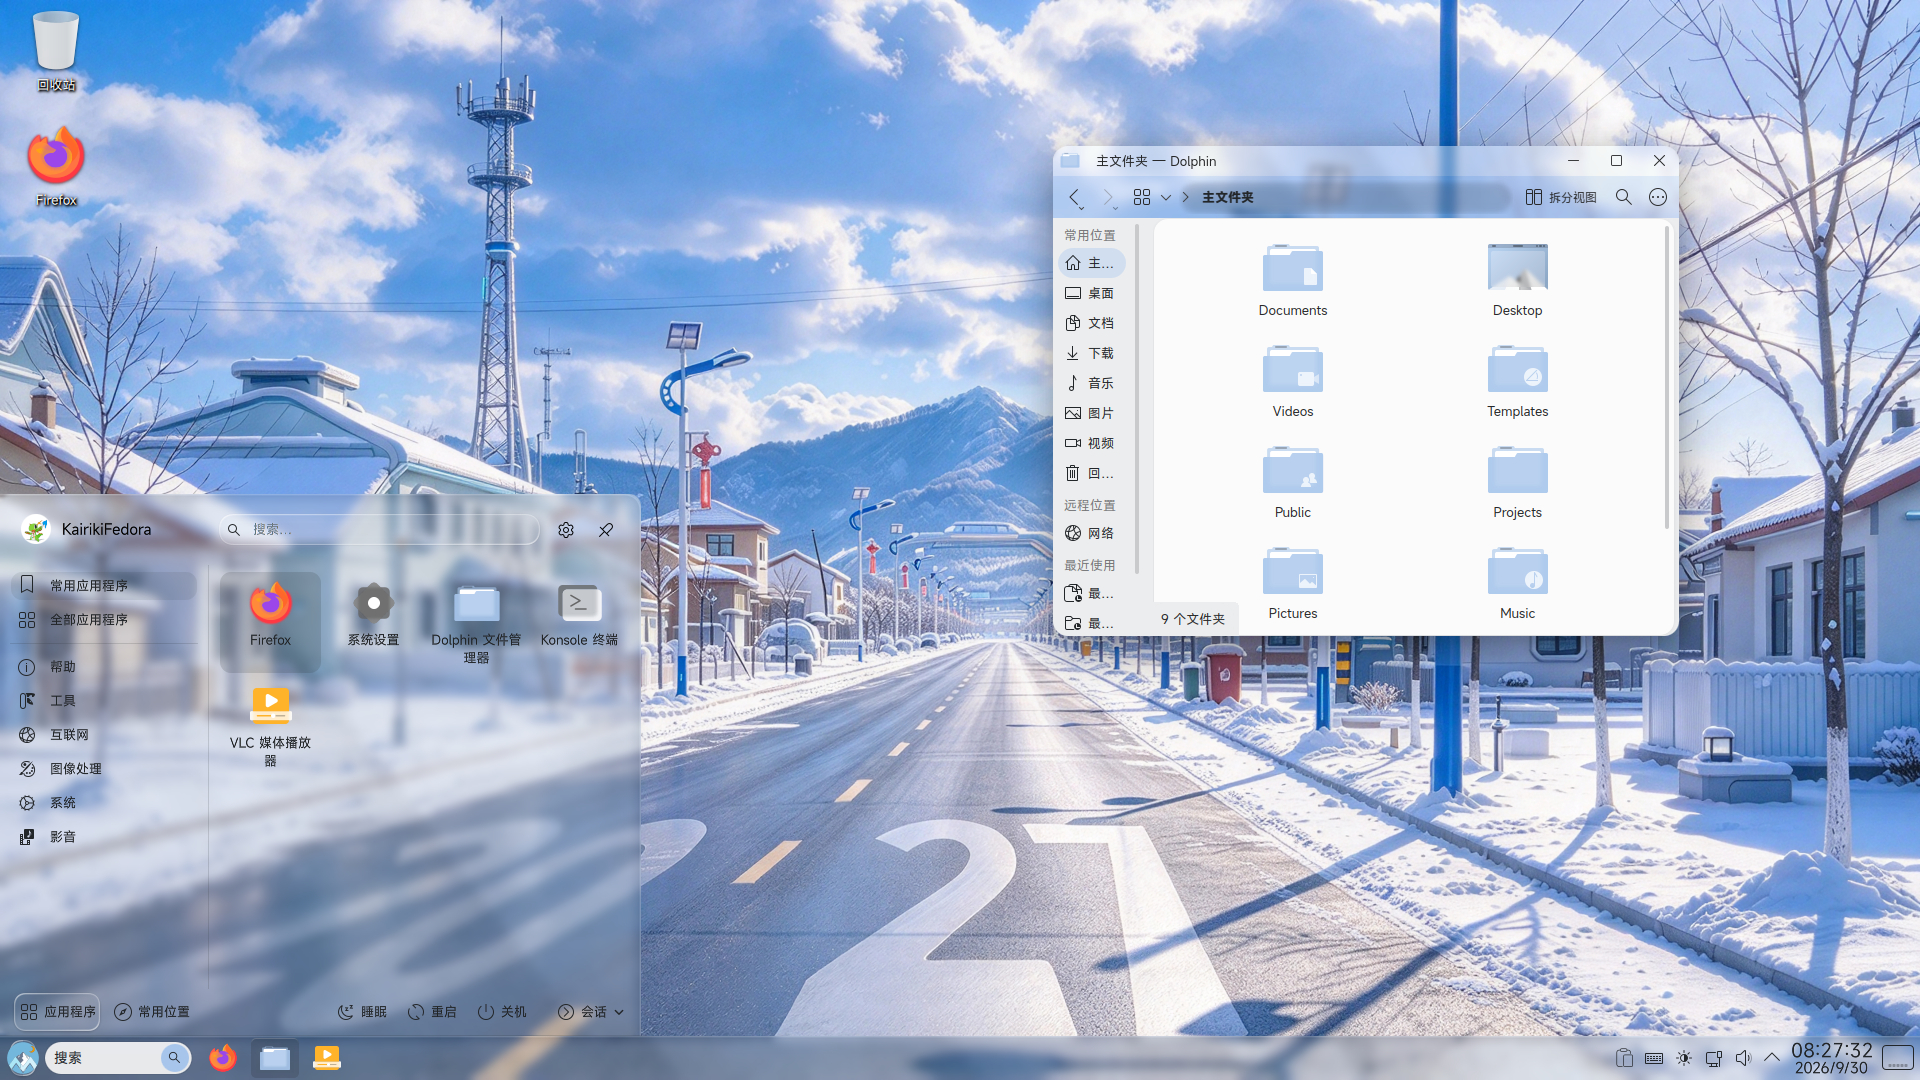
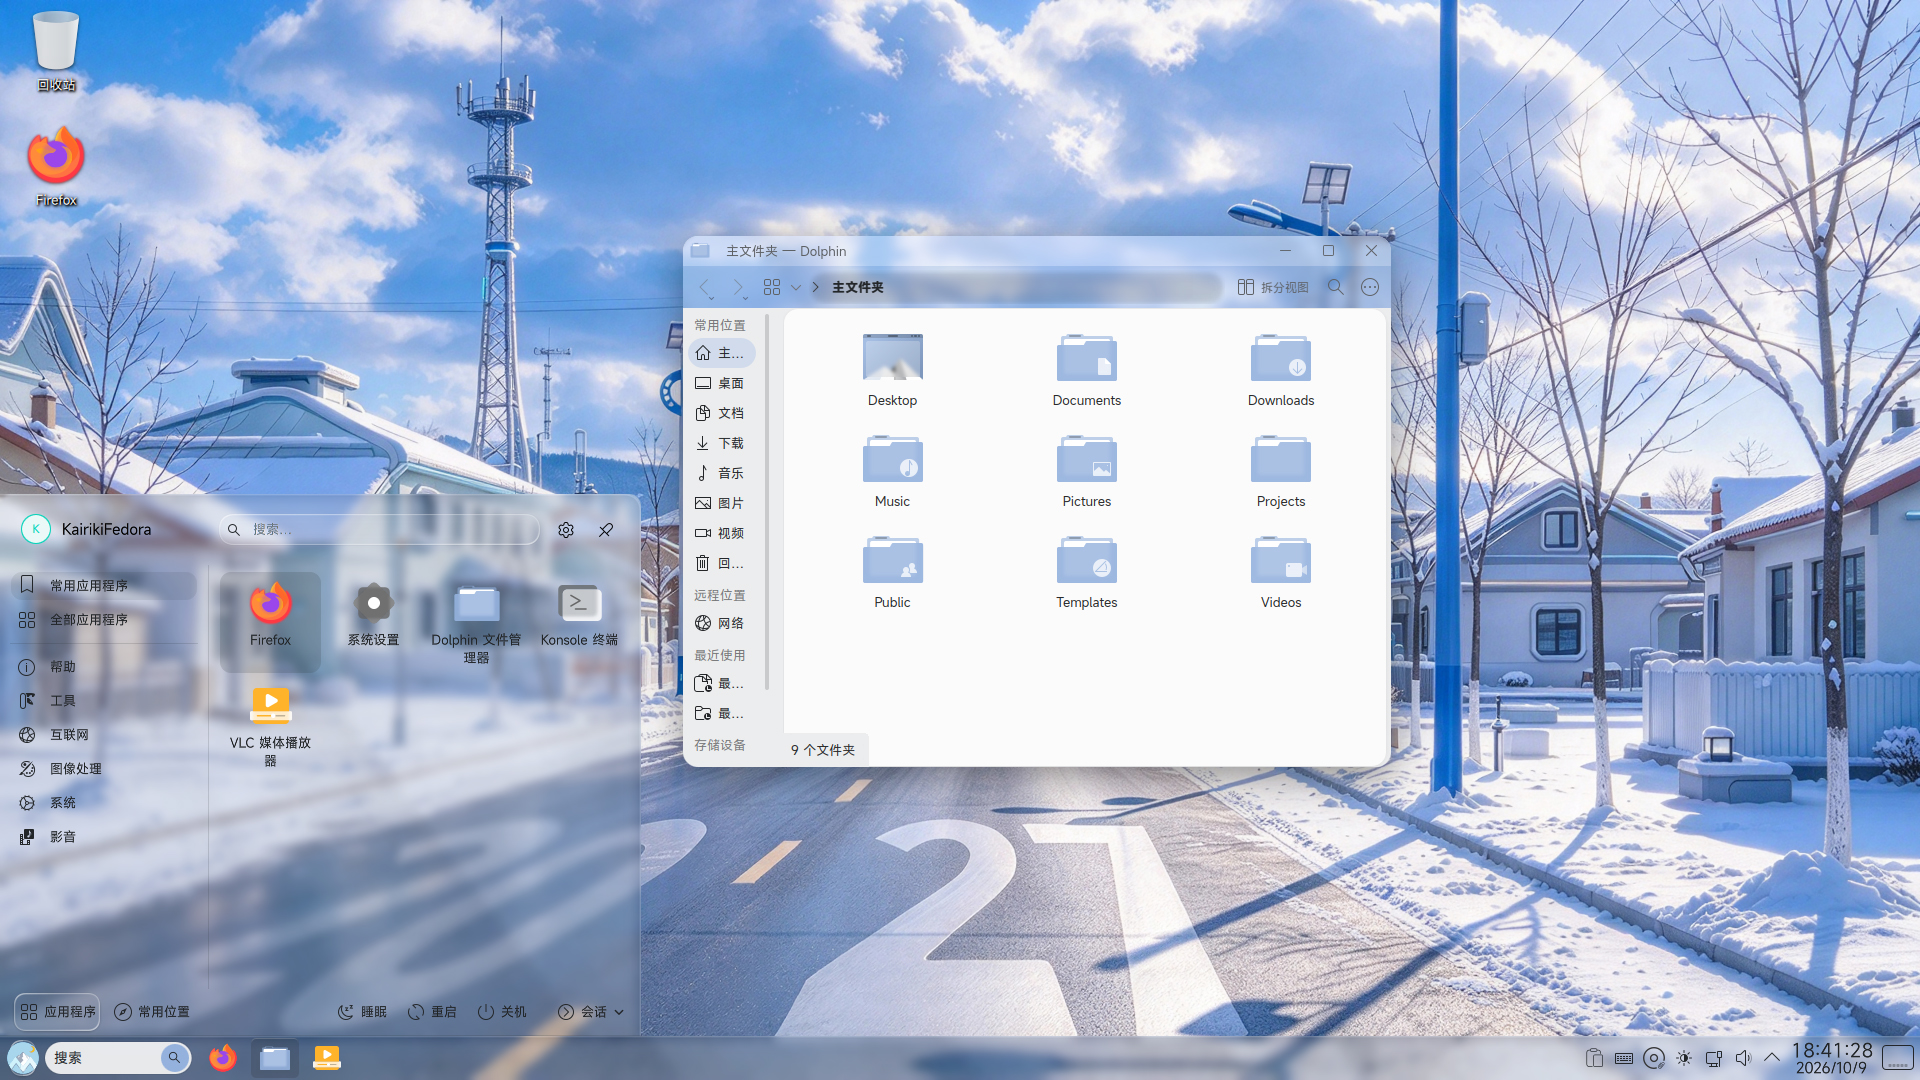
Add Adwaita Accent Tint Support and Add Modern System Tray support

diff --git a/etc/skel/.config/gtk-4.0/gtk.css b/etc/skel/.config/gtk-4.0/gtk.css
@@ -1,0 +1,82 @@
+/* =========================================
+ * Light Mode Implementation
+ * ========================================= */
+@media (prefers-color-scheme: light) {
+    /* Base Variables */
+    @define-color window_bg_color mix(#fafafb, @accent_bg_color, 0.075);
+    @define-color view_bg_color mix(#ffffff, @accent_bg_color, 0.075);
+    @define-color headerbar_bg_color mix(#ffffff, @accent_bg_color, 0.075);
+    @define-color headerbar_backdrop_color mix(#fafafb, @accent_bg_color, 0.075);
+    @define-color popover_bg_color mix(#ffffff, @accent_bg_color, 0.075);
+    @define-color dialog_bg_color mix(#fafafb, @accent_bg_color, 0.075);
+    @define-color card_bg_color mix(#ffffff, @accent_bg_color, 0.04);
+    @define-color sidebar_bg_color mix(#ebebed, @accent_bg_color, 0.075);
+    @define-color sidebar_backdrop_color mix(#f2f2f4, @accent_bg_color, 0.075);
+    @define-color sidebar_border_color mix(rgba(0, 0, 6, 0.07), @accent_bg_color, 0.075);
+    @define-color secondary_sidebar_bg_color mix(#f3f3f5, @accent_bg_color, 0.075);
+    @define-color secondary_sidebar_backdrop_color mix(#f6f6fa, @accent_bg_color, 0.075);
+    @define-color secondary_sidebar_border_color mix(rgba(0, 0, 0, 0.07), @accent_bg_color, 0.075);
+
+    /* Specific Element Overrides (Light) */
+    @define-color panel_bg_color @window_bg_color;
+    @define-color panel_button_bg_color transparent;
+    @define-color panel_hover_bg_color @card_bg_color;
+
+    /* Compatibility Colors (Safety Fallback) */
+    @define-color theme_bg_color @window_bg_color;
+    @define-color theme_base_color @view_bg_color;
+    @define-color theme_selected_bg_color @accent_bg_color;
+}
+
+/* =========================================
+ * Dark Mode Implementation
+ * ========================================= */
+@media (prefers-color-scheme: dark) {
+    /* Base Variables */
+    @define-color window_bg_color mix(#222226, @accent_bg_color, 0.05);
+    @define-color view_bg_color mix(#1d1d20, @accent_bg_color, 0.05);
+    @define-color headerbar_bg_color mix(#2e2e32, @accent_bg_color, 0.05);
+    @define-color headerbar_backdrop_color mix(#222226, @accent_bg_color, 0.05);
+    @define-color popover_bg_color mix(#36363a, @accent_bg_color, 0.05);
+    @define-color dialog_bg_color mix(#36363a, @accent_bg_color, 0.05);
+    @define-color card_bg_color mix(rgba(255, 255, 255, 0.08), @accent_bg_color, 0.05);
+    @define-color sidebar_bg_color mix(#2e2e32, @accent_bg_color, 0.05);
+    @define-color sidebar_backdrop_color mix(#28282c, @accent_bg_color, 0.05);
+    @define-color sidebar_border_color mix(rgba(0, 0, 0, 0.36), @accent_bg_color, 0.05);
+    @define-color secondary_sidebar_bg_color mix(#28282c, @accent_bg_color, 0.05);
+    @define-color secondary_sidebar_backdrop_color mix(#252529, @accent_bg_color, 0.05);
+    @define-color secondary_sidebar_border_color mix(rgba(0, 0, 0, 0.25), @accent_bg_color, 0.05);
+
+    /* Specific Element Overrides (Dark) */
+    @define-color panel_bg_color @window_bg_color;
+    @define-color panel_button_bg_color transparent;
+    @define-color panel_hover_bg_color @card_bg_color;
+
+    /* Compatibility Colors (Safety Fallback) */
+    @define-color theme_bg_color @window_bg_color;
+    @define-color theme_base_color @view_bg_color;
+    @define-color theme_selected_bg_color @accent_bg_color;
+}
+
+/* =========================================
+ * Element Styling Rules
+ * ========================================= */
+
+/* Force toasts to always use the dark base with white text
+ *  to match Nautilus's native high-contrast alert style. */
+toast {
+    background-color: mix(#505053, @accent_bg_color, 0.05);
+    color: #ffffff;
+}
+
+toggle:checked {
+    background-color: @card_bg_color;
+}
+
+.inline {
+    background-color: rgba(0, 0, 0, 0);
+}
+
+@import 'window_controls.css';
+@import 'colors.css';
+@import 'kde_window_geometry.css';

diff --git a/etc/skel/.config/gtk-4.0/window_controls.css b/etc/skel/.config/gtk-4.0/window_controls.css
@@ -1,0 +1,81 @@
+windowcontrols:not(.rewaita-display) > button {
+    padding: 2px;
+}
+
+windowcontrols:not(.rewaita-display) image:not(:hover) {
+    background-color: transparent;
+}
+
+windowcontrols:not(.rewaita-display) image:hover {
+    background-color: @window_fg_color;
+    color: @window_bg_color;
+}
+
+windowcontrols:not(.rewaita-display) > button.minimize > image {
+    background-image: -gtk-icontheme("adw-expander-arrow-symbolic");
+    transform: rotate(180deg);
+    -gtk-icon-transform: scale(0);
+    background-size: 16px;
+    background-position: center;
+    background-repeat: no-repeat;
+}
+
+windowcontrols:not(.rewaita-display) > button.maximize > image {
+    background-image: -gtk-icontheme("adw-expander-arrow-symbolic");
+    -gtk-icon-transform: scale(0);
+    background-size: 16px;
+    background-position: center;
+    background-repeat: no-repeat;
+}
+
+windowcontrols:not(.rewaita-display) > button.close > image:hover {
+    background-color: @red_1;
+    color: @window_bg_color;
+}
+
+windowcontrols:not(.rewaita-display) > button.close > image {
+    transform: scale(1.1);
+}
+
+window.maximized > * windowcontrols:not(.rewaita-display) > button.maximize:hover {
+    background-color: @window_fg_color;
+    color: @window_bg_color;
+}
+
+window.maximized > * windowcontrols:not(.rewaita-display) > button.maximize {
+    border-radius: 100%;
+    margin: 3px 0;
+}
+
+window.maximized > * windowcontrols:not(.rewaita-display) > button.maximize > image:hover {
+    background-color: transparent;
+}
+
+window.maximized > * windowcontrols:not(.rewaita-display) > button.maximize:hover > image {
+    box-shadow: inset 0 0 0 3px @window_bg_color;
+}
+
+window.maximized > * windowcontrols:not(.rewaita-display) > button.maximize > image {
+    background-image: none;
+    box-shadow: inset 0 0 0 3px @window_fg_color;
+    border-radius: 1px;
+    color: @window_fg_color;
+    transform: rotate(45deg) scale(0.5);
+}
+
+/* 窗口图标（标题栏左侧）：悬停不再有黑底/反色 */
+windowcontrols:not(.rewaita-display) image:hover {
+    background-color: transparent;
+    color: @window_fg_color;
+}
+
+/* 只给 最小化/最大化/关闭 三个按钮保留原来的反色悬停 */
+windowcontrols:not(.rewaita-display) > button > image:hover {
+    background-color: @window_fg_color;
+    color: @window_bg_color;
+}
+
+/*headerbar, .titlebar {
+    background-color: @theme_titlebar_background_breeze;
+    color: @theme_titlebar_foreground_breeze;
+}*/

diff --git a/etc/skel/.config/gtk-4.0/kde_window_geometry.css b/etc/skel/.config/gtk-4.0/kde_window_geometry.css
@@ -1,0 +1,41 @@
+/* ========================================================
+ *  1. 基础轮廓与圆角（亮色模式默认）
+ *  ======================================================== */
+window,
+window.background,
+.csd decoration,
+.csd {
+    border-radius: 6px;
+    /* 明亮模式：半透明黑色边框 */
+    border: 1px solid rgba(0, 0, 0, 0.18);
+}
+
+/* ========================================================
+ *  2. 暗色模式：仅覆盖边框颜色
+ *  ======================================================== */
+@media (prefers-color-scheme: dark) {
+    window,
+    window.background,
+    .csd decoration,
+    .csd {
+        /* 暗色模式：半透明白色边框/高亮线 */
+        border-color: rgba(255, 255, 255, 0.18);
+    }
+}
+
+/* ========================================================
+ *  3. 状态控制：平铺或最大化时自动重置，避免错位
+ *  ======================================================== */
+window.maximized,
+window.fullscreen,
+window.tiled,
+window.tiled-top,
+window.tiled-left,
+window.tiled-right,
+window.tiled-bottom {
+    border: none;
+    border-radius: 0;
+}
+
+
+

diff --git a/usr/share/plasma/look-and-feel/evernight-vista-harmony-dark/contents/layouts/org.kde.plasma.desktop-layout.js b/usr/share/plasma/look-and-feel/evernight-vista-harmony-dark/contents/layouts/org.kde.plasma.desktop-layout.js
@@ -56,7 +56,7 @@ taskBar.writeConfig("hoverEffect",false)
 panel.addWidget("org.kde.plasma.panelspacer")
 // panel.addWidget("org.kde.plasma.pager")
 
-panel.addWidget("org.kde.plasma.systemtray")
+panel.addWidget("org.kde.windowsmodern.systemtray")
 let digitalClock = panel.addWidget("org.kde.plasma.digitalclock")
 digitalClock.writeConfig("enabledCalendarPlugins", "holidaysevents")
 digitalClock.writeConfig("showSeconds", 2)

diff --git a/usr/share/plasma/look-and-feel/evernight-vista-harmony/contents/layouts/org.kde.plasma.desktop-layout.js b/usr/share/plasma/look-and-feel/evernight-vista-harmony/contents/layouts/org.kde.plasma.desktop-layout.js
@@ -56,7 +56,7 @@ taskBar.writeConfig("hoverEffect",false)
 panel.addWidget("org.kde.plasma.panelspacer")
 // panel.addWidget("org.kde.plasma.pager")
 
-panel.addWidget("org.kde.plasma.systemtray")
+panel.addWidget("org.kde.windowsmodern.systemtray")
 let digitalClock = panel.addWidget("org.kde.plasma.digitalclock")
 digitalClock.writeConfig("enabledCalendarPlugins", "holidaysevents")
 digitalClock.writeConfig("showSeconds", 2)

diff --git a/usr/share/plasma/layout-templates/evernight-vista-panel/contents/layout.js b/usr/share/plasma/layout-templates/evernight-vista-panel/contents/layout.js
@@ -56,7 +56,7 @@ taskBar.writeConfig("hoverEffect",false)
 panel.addWidget("org.kde.plasma.panelspacer")
 //panel.addWidget("org.kde.plasma.pager")
 
-panel.addWidget("org.kde.plasma.systemtray")
+panel.addWidget("org.kde.windowsmodern.systemtray")
 let digitalClock = panel.addWidget("org.kde.plasma.digitalclock")
 digitalClock.writeConfig("enabledCalendarPlugins", "holidaysevents")
 digitalClock.writeConfig("showSeconds", 2)

diff --git a/usr/share/plasma/look-and-feel/evernight-vista-dark/contents/layouts/org.kde.plasma.desktop-layout.js b/usr/share/plasma/look-and-feel/evernight-vista-dark/contents/layouts/org.kde.plasma.desktop-layout.js
@@ -55,7 +55,7 @@ taskBar.writeConfig("hoverEffect",false)
 
 panel.addWidget("org.kde.plasma.panelspacer")
 
-panel.addWidget("org.kde.plasma.systemtray")
+panel.addWidget("org.kde.windowsmodern.systemtray")
 let digitalClock = panel.addWidget("org.kde.plasma.digitalclock")
 digitalClock.writeConfig("enabledCalendarPlugins", "holidaysevents")
 digitalClock.writeConfig("showSeconds", 2)

diff --git a/usr/share/plasma/look-and-feel/evernight-vista/contents/layouts/org.kde.plasma.desktop-layout.js b/usr/share/plasma/look-and-feel/evernight-vista/contents/layouts/org.kde.plasma.desktop-layout.js
@@ -55,7 +55,7 @@ taskBar.writeConfig("hoverEffect",false)
 
 panel.addWidget("org.kde.plasma.panelspacer")
 
-panel.addWidget("org.kde.plasma.systemtray")
+panel.addWidget("org.kde.windowsmodern.systemtray")
 let digitalClock = panel.addWidget("org.kde.plasma.digitalclock")
 digitalClock.writeConfig("enabledCalendarPlugins", "holidaysevents")
 digitalClock.writeConfig("showSeconds", 2)

diff --git a/usr/share/plasma/look-and-feel/evernight-vista-classic-dark/contents/layouts/org.kde.plasma.desktop-layout.js b/usr/share/plasma/look-and-feel/evernight-vista-classic-dark/contents/layouts/org.kde.plasma.desktop-layout.js
@@ -54,7 +54,7 @@ taskBar.writeConfig("hoverEffect",false)
 
 panel.addWidget("org.kde.plasma.pager")
 
-panel.addWidget("org.kde.plasma.systemtray")
+panel.addWidget("org.kde.windowsmodern.systemtray")
 let digitalClock = panel.addWidget("org.kde.plasma.digitalclock")
 digitalClock.writeConfig("enabledCalendarPlugins", "holidaysevents")
 digitalClock.writeConfig("showSeconds", 2)

diff --git a/usr/share/plasma/look-and-feel/evernight-vista-classic/contents/layouts/org.kde.plasma.desktop-layout.js b/usr/share/plasma/look-and-feel/evernight-vista-classic/contents/layouts/org.kde.plasma.desktop-layout.js
@@ -54,7 +54,7 @@ taskBar.writeConfig("hoverEffect",false)
 
 panel.addWidget("org.kde.plasma.pager")
 
-panel.addWidget("org.kde.plasma.systemtray")
+panel.addWidget("org.kde.windowsmodern.systemtray")
 let digitalClock = panel.addWidget("org.kde.plasma.digitalclock")
 digitalClock.writeConfig("enabledCalendarPlugins", "holidaysevents")
 digitalClock.writeConfig("showSeconds", 2)
